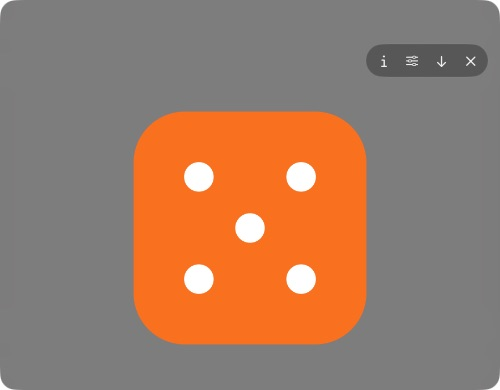
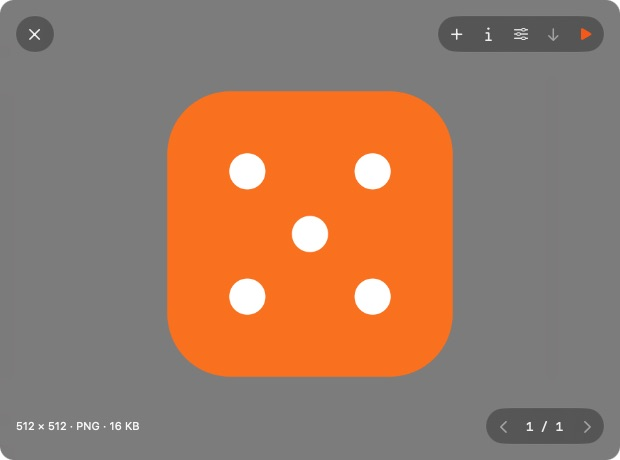
Refine metadata controls and footer layout, document first launch

diff --git a/Sources/Dice/Views.swift b/Sources/Dice/Views.swift
@@ -22,7 +22,7 @@ struct DiceView: View {
         ZStack(alignment: .topTrailing) {
             if batch {
                 BatchPane(model: model, query: $batchSearch) { id in model.selected = id; batch = false }
-                    .padding(.top, 52).padding(.bottom, model.items.isEmpty ? 16 : 52)
+                    .padding(.top, 64).padding(.bottom, model.items.isEmpty ? 16 : 58)
             } else if model.items.isEmpty {
                 VStack(spacing: 12) {
                     Image(systemName: "die.face.5").font(DiceStyle.emptySymbol).foregroundStyle(.secondary)
@@ -30,7 +30,7 @@ struct DiceView: View {
                     Text("or drop them here").font(DiceStyle.caption).foregroundStyle(.tertiary)
                 }.frame(maxWidth: .infinity, maxHeight: .infinity)
             } else if metadata {
-                MetadataPane(info: inspected).id(model.selected).padding(.top, 54).padding(.bottom, 52)
+                MetadataPane(info: inspected).id(model.selected).padding(.top, 64).padding(.bottom, 58)
                     .transition(.opacity)
             } else {
                 VStack(spacing: 0) {
@@ -43,7 +43,7 @@ struct DiceView: View {
             }
             toolbar.padding(DiceStyle.inset).padding(.leading, metadata || batch ? 56 : 0)
             if !model.items.isEmpty {
-                VStack { Spacer(); HStack { Spacer(); pager }.padding(DiceStyle.inset) }
+                VStack { Spacer(); HStack(spacing: 12) { footerSummary; Spacer(minLength: 12); pager }.padding(DiceStyle.inset) }
             }
         }
         .font(DiceStyle.body)
@@ -110,6 +110,20 @@ struct DiceView: View {
         .background { if !metadata && !batch { Capsule().fill(.ultraThinMaterial) } }
         .overlay { if !metadata && !batch { Capsule().stroke(.white.opacity(0.09), lineWidth: 0.5) } }
         .frame(maxWidth: metadata || batch ? .infinity : nil)
+    }
+    @ViewBuilder var footerSummary: some View {
+        if batch {
+            let count = model.items.filter { ImageSearch.matches(batchSearch, text: $0.searchText) }.count
+            Text("\(count) of \(model.items.count) images").font(DiceStyle.caption).foregroundStyle(.secondary)
+        } else if let info = inspected {
+            HStack(spacing: 6) {
+                Text("\(info.width) × \(info.height) · \(info.value("FileType") ?? "Image") · \(bytes(info.bytes))")
+                if metadata {
+                    Text("· \(info.rows.count) tags")
+                    if info.hasGPS { Image(systemName: "location.fill").help("GPS metadata found") }
+                }
+            }.font(DiceStyle.caption).foregroundStyle(.secondary).lineLimit(1)
+        }
     }
     var pager: some View {
         HStack(spacing: 0) {
@@ -201,7 +215,6 @@ struct BatchPane: View {
                     }
                 }
             }
-            HStack { Text("\(filtered.count) of \(model.items.count) images").font(DiceStyle.caption).foregroundStyle(.secondary); Spacer() }
         }.padding(.horizontal, 16)
     }
 }

diff --git a/Sources/Dice/MetadataPane.swift b/Sources/Dice/MetadataPane.swift
@@ -19,18 +19,6 @@ struct MetadataPane: View {
 
     var body: some View {
         VStack(alignment: .leading, spacing: 12) {
-            if let info {
-                HStack(spacing: 6) {
-                    Text("\(info.width) × \(info.height)").monospacedDigit()
-                    Text("·")
-                    Text(info.value("FileType") ?? "Image")
-                    Text("·")
-                    Text(bytes(info.bytes))
-                    Spacer()
-                    if info.hasGPS { Image(systemName: "location.fill").help("GPS metadata found") }
-                    Text("\(rows.count) tags")
-                }.font(DiceStyle.caption).foregroundStyle(.secondary)
-            }
             HStack(spacing: 10) {
                 HStack(spacing: 8) {
                     Image(systemName: "magnifyingglass").foregroundStyle(.secondary)
@@ -77,8 +65,14 @@ struct MetadataPane: View {
         }.padding(.horizontal, DiceStyle.inset)
     }
 
+    private func copy(_ value: String) {
+        NSPasteboard.general.clearContents()
+        NSPasteboard.general.setString(value, forType: .string)
+    }
+
     private func tag(_ row: MetadataRow, labelWidth: CGFloat) -> some View {
         VStack(alignment: .leading, spacing: 0) {
+            HStack(spacing: 0) {
             Button {
                 selected = selected == row.id ? nil : row.id
             } label: {
@@ -91,6 +85,12 @@ struct MetadataPane: View {
             }.buttonStyle(.plain).help("\(row.name): \(row.value)")
                 .accessibilityLabel("\(row.name), \(row.value)")
                 .accessibilityHint("Show or hide the full value")
+            Button { copy(row.value) } label: {
+                Image(systemName: "doc.on.doc").font(DiceStyle.caption)
+                    .foregroundStyle(.secondary).frame(width: DiceStyle.controlSize, height: DiceStyle.controlSize)
+                    .contentShape(Rectangle())
+            }.buttonStyle(.plain).help("Copy value").accessibilityLabel("Copy \(row.name) value")
+            }
             if selected == row.id {
                 Text(row.value).font(DiceStyle.data).textSelection(.enabled)
                     .frame(maxWidth: .infinity, alignment: .leading)
@@ -101,8 +101,7 @@ struct MetadataPane: View {
         .overlay(alignment: .bottom) { Rectangle().fill(.primary.opacity(0.045)).frame(height: 0.5).padding(.horizontal, 8) }
         .contextMenu {
             Button("Copy value") {
-                NSPasteboard.general.clearContents()
-                NSPasteboard.general.setString(row.value, forType: .string)
+                copy(row.value)
             }
         }
     }

diff --git a/Sources/Dice/App.swift b/Sources/Dice/App.swift
@@ -2,7 +2,11 @@ import SwiftUI
 import AppKit
 
 @main struct DiceApp {
-    @MainActor static func main() {
+    static func main() {
+        // AppKit owns the run loop; don't hold a Swift main-actor job across app.run().
+        MainActor.assumeIsolated { run() }
+    }
+    @MainActor private static func run() {
         let app = NSApplication.shared
         let delegate = DiceDelegate()
         app.delegate = delegate

diff --git a/README.md b/README.md
@@ -2,7 +2,15 @@
 
 A small native Mac app for image conversion, compression, resizing and metadata inspection. Built in Swift with SwiftUI, AppKit and ImageIO.
 
-## v0.1.6 preview
+## What Dice does
+
+Convert, resize and compress images in a small native window. Inspect all image metadata, remove personal tags and search a batch by filename, metadata or recognized text. Processing stays on your Mac, and original files stay untouched.
+
+![Image editor](docs/image.png)
+![Metadata viewer](docs/metadata.png)
+![Image list](docs/batch.png)
+
+## v0.1.7 preview
 
 - Launch from Applications or right-click an image → Quick Actions → Edit with Dice. The Dock icon appears while the editor is open and disappears when it closes.
 - Launch opens the drop surface without an automatic file picker. Drag-over lights the full window edge with a soft aurora glow.
@@ -25,6 +33,31 @@ Download the Apple-silicon ZIP from [Dice Releases](https://github.com/lumen-xx/
 
 The app bundles ExifTool and WebP tools. No Homebrew installation is needed to run it. It currently relies on `/usr/bin/perl`, supplied by the supported macOS system; compatibility across clean macOS installations still needs validation. Image processing stays local. Update checks contact GitHub only when requested; no account or GitHub token is required in the app.
 
+### First launch on macOS
+
+Dice is currently a development preview, so macOS may block the first downloaded copy. Download it from [our Releases page](https://github.com/lumen-xx/dice-releases/releases), unzip it and move **Dice.app** to **Applications**.
+
+**Using System Settings**
+
+1. Try opening Dice once.
+2. Open **System Settings → Privacy & Security**.
+3. Scroll to the security message about Dice and click **Open Anyway**.
+4. Confirm **Open** and authenticate if macOS asks.
+
+See [Apple’s opening instructions](https://support.apple.com/en-us/102445) for details.
+
+**Using Terminal**
+
+For the Dice copy you downloaded from our Releases page, paste this into Terminal:
+
+```sh
+xattr -dr com.apple.quarantine /Applications/Dice.app
+```
+
+Then open Dice from Applications. This removes the download quarantine flag from Dice only; it does not disable Gatekeeper system-wide. If you installed Dice somewhere else, use that app’s path instead.
+
+Once you have an updater-enabled build, use **Dice → Check for Updates…** for later releases.
+
 ### Build
 
 Requires Apple Command Line Tools (Swift 5.9+), Python 3, and local Homebrew installations of **ExifTool 13.50** and **WebP 1.6.0**. These are the development-preview pins; the packaging script rejects different versions instead of silently changing the shipped tools. A source-download build for pinned dependencies is future work.
@@ -37,7 +70,7 @@ python3 scripts/install-quick-action.py
 
 Enable **Edit with Dice** in System Settings → General → Login Items & Extensions → Finder, if macOS leaves the new Quick Action disabled. It is already installed and enabled on the development Mac. The action is image-only and lives at `~/Library/Services/Edit with Dice.workflow`; removing that workflow uninstalls the action. The installer refuses to overwrite an existing action unless `--update` is supplied for a workflow generated by Dice. It prefers `/Applications/Dice.app`; use `--app` to select another app location.
 
-The ZIP is written to `build/Dice-v0.1.6-apple-silicon.zip`. The signed application is `build/Dice.app` (also recorded in `build/app-path.txt`). Build outside cloud-synced folders, which can attach Finder metadata that breaks signing. The packaging script enforces an installed size below 40,000,000 bytes.
+The ZIP is written to `build/Dice-v0.1.7-apple-silicon.zip`. The signed application is `build/Dice.app` (also recorded in `build/app-path.txt`). Build outside cloud-synced folders, which can attach Finder metadata that breaks signing. The packaging script enforces an installed size below 40,000,000 bytes.
 
 See the [interface style guide](docs/STYLE_GUIDE.md) and [validation details](docs/VALIDATION.md).
 

diff --git a/docs/VALIDATION.md b/docs/VALIDATION.md
@@ -1,3 +1,13 @@
+# v0.1.7 validation — 2026-10-08
+
+Release build and deep strict bundle signature verification pass. Size: 26.23 MB installed / 7.80 MB zipped. All 11 processing/search checks pass.
+
+Fresh native development launch imports the generated image promptly after moving the AppKit run loop out of the Swift main-actor entry job. Native checks verified header/search spacing, trailing per-row copy controls, metadata details in the bottom-left footer, and the batch count aligned with paging. Clicking Copy ImageSize placed `512x512` on the clipboard. README screenshots use generated demo content only.
+
+Public GitHub updates installed both 0.1.6 and 0.1.7. For 0.1.7, native download/ready-to-install UI was checked; after session protection and close, the installed bundle became 0.1.7/build 8, passed deep strict signature verification and reopened to the drop surface. The public GitHub update completed: `/Applications/Dice.app` changed from 0.1.5/build 6 to 0.1.6/build 7, and the running app reopened with an image. The earlier local signed installation/relaunch test is recorded below.
+
+---
+
 # v0.1.6 updater validation — 2026-10-08
 
 Sparkle 2.10.0 is pinned in SwiftPM and bundled with its license. The packaged app passes deep, strict signature verification and remains below the 40 MB budget: approximately 26.2 MB installed / 7.8 MB zipped. All 11 processing/search checks pass.
@@ -6,7 +16,7 @@ The signed archive and signed feed verify against the Dice Keychain key. Modifie
 
 A native local update test installed build 6 over build 5 and relaunched at the original app path. Server logs confirmed feed/archive requests; the installed Info.plist changed to 0.1.5/build 6, and the subsequent check reported that version up to date. The public release feed and archive are published; GitHub’s raw feed can lag while its CDN refreshes.
 
-Checks are manual by default. The updater postpones relaunch if image processing/import or unsaved processed copies remain. That session-protection branch is code-reviewed but was not exercised in the native update test. Initial browser-download Gatekeeper approval and cross-machine compatibility remain to be validated; update signatures do not notarize Dice itself.
+Checks are manual by default. The updater postpones relaunch if image processing/import or unsaved processed copies remain. The unsaved-results branch was subsequently exercised during the public 0.1.7 update: relaunch was held until the result was backed up and the editor closed. Initial browser-download Gatekeeper approval and cross-machine compatibility remain to be validated; update signatures do not notarize Dice itself.
 
 ---
 

diff --git a/docs/STYLE_GUIDE.md b/docs/STYLE_GUIDE.md
@@ -40,3 +40,5 @@ Use restrained transitions and honour Reduce Motion. Avoid idle animation. Searc
 Launching from Finder or Applications reveals the drop surface. Only an explicit Choose images or Add action opens the file picker; opening image files imports them directly.
 
 The metadata view uses an unboxed navigation header and flat name/value rows. Show each group name once as a quiet section label. Search has a single subtle background; the group filter stays neutral. Select a row to reveal its full, selectable value in place. Avoid table chrome and alternating filled rows.
+
+Search begins 12 points below the navigation header. The shared footer aligns image counts or resolution/format/size on the left with paging on the right. Metadata rows have a trailing copy-value button with a 30-point target.
